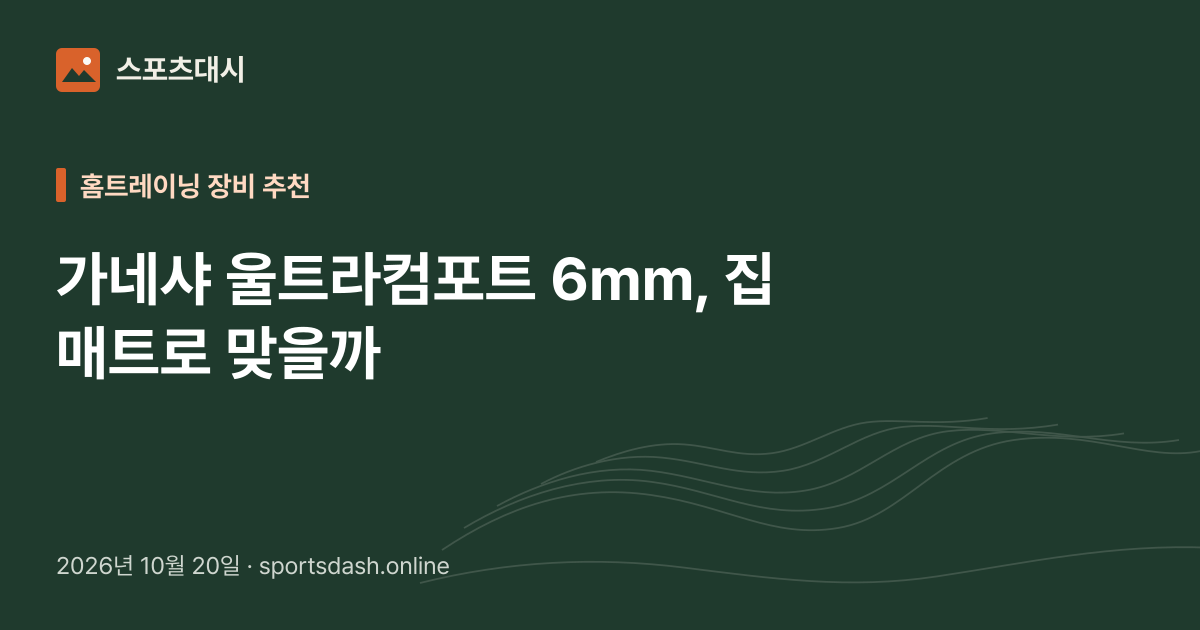
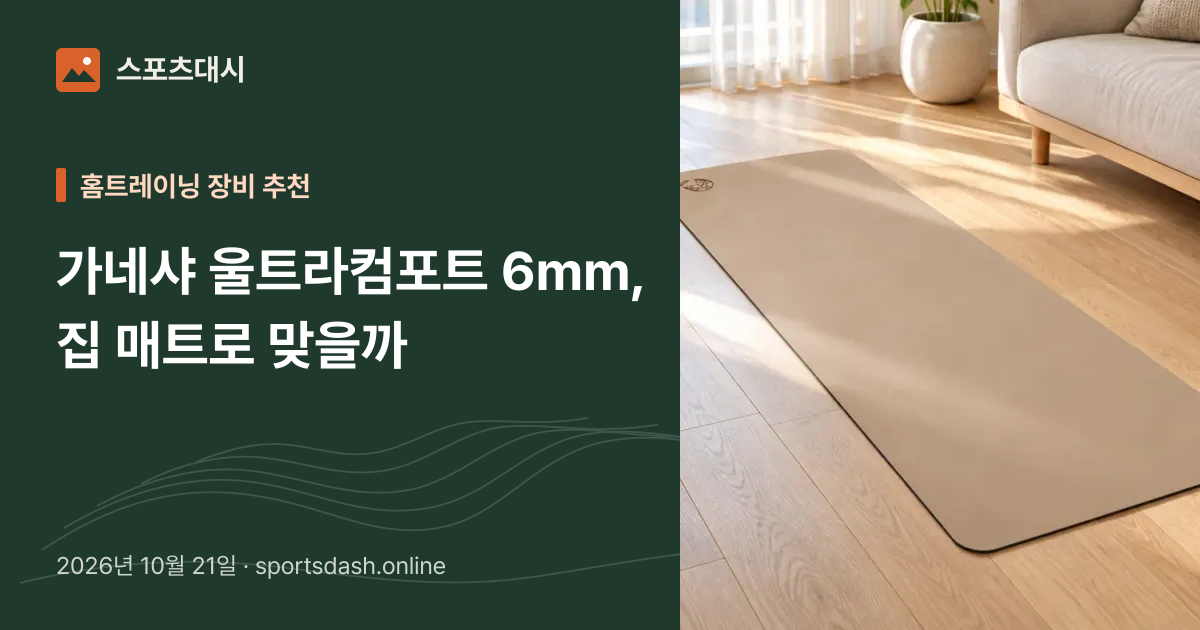
content: rewrite MB5 and Ganesha published posts to trail format (format: trail), 7 gpt-image WebP photos each from official/exact-option refs; drop PNG diagram refs

diff --git a/ops/evidence/ganesha-ultra-comfort-6mm-yoga-mat-images.md b/ops/evidence/ganesha-ultra-comfort-6mm-yoga-mat-images.md
@@ -1,0 +1,21 @@
+# Image provenance: ganesha-ultra-comfort-6mm-yoga-mat (trail rewrite 2026-10-21, task C)
+
+Generator: GENEXIS gpt-image skill (ChatGPT-subscription Codex bridge), batch concurrency 2, manifests a-d / logs / collector receipts in
+channel-ops/ops/state/sportsdash-taskc-20261021/. Native CLI reported write failure (read-only policy); PNGs recovered by strict host-copy collector (exact_utf8 binding). WebP 1280x853 q76.
+Refs: the manufacturer site (ganeshayogaprops.com/47?idx=157) colour list has no Milk Sand, so the exact-option refs are the brand-shop gallery photos on the exact Coupang listing
+https://www.coupang.com/vp/products/8522471997?itemId=24650131748&vendorItemId=91660750475 (selected option observed 2026-10-21: Milk Sand × 183cm x 68 cm × 1개):
+https://thumbnail.coupangcdn.com/thumbnails/remote/1000x1000ex/image/retail/images/2486487714954465-4f1cd3a7-040c-4b85-b208-f5be9d066de3.jpg ;
+https://thumbnail.coupangcdn.com/thumbnails/remote/1000x1000ex/image/retail/images/554098781040909-42987b64-12ce-463a-834e-cccf1d77fbff.jpg ;
+https://thumbnail.coupangcdn.com/thumbnails/remote/1000x1000ex/image/retail/images/2486477425206984-0a9a451e-1fa1-4f7f-abe3-37afb064ada5.jpg
+(local copies + full list: _ops/source-maintenance/2026-10-21-redesign/sportsdash/refs/ganesha-milksand-*.jpg, ganesha-refs-urls.json). Old PNG diagrams (cover/layers/weight/check.png) are no longer referenced; files left in place.
+
+| file | role | QA |
+|---|---|---|
+| ganesha-hero-living.webp | cover | PASS: Milk Sand sandy-beige top, rounded corners, ~2.7:1, small logo stamp at one end, thin dark base line |
+| ganesha-corner-edge.webp | detail | PASS: rounded corner, beige PU over dark rubber layer, elephant-drop logo (no invented text) |
+| ganesha-roll-end.webp | detail | PASS: spiral shows beige top / charcoal rubber underside |
+| ganesha-airing-window.webp | context | PASS with alt fix: window not clearly open, alt changed to "햇빛 드는 창가" |
+| ganesha-stored-corner.webp | context | PASS: rolled upright, no strap/bag/band |
+| ganesha-measure-floor.webp | use | PASS: tape numbers not legible, mat between sofa and table |
+| ganesha-practice-towel.webp | use | PASS: low lunge, plain towel at front end, realistic anatomy |
+No prices, ratings, efficacy, or first-hand claims in alts/captions.

diff --git a/ops/evidence/triggerpoint-mb5-massage-ball-images.md b/ops/evidence/triggerpoint-mb5-massage-ball-images.md
@@ -1,0 +1,20 @@
+# Image provenance: triggerpoint-mb5-massage-ball (trail rewrite 2026-10-21, task C)
+
+Generator: GENEXIS gpt-image skill (ChatGPT-subscription Codex bridge), batch concurrency 2, manifests a-d / logs / collector receipts in
+channel-ops/ops/state/sportsdash-taskc-20261021/. Native CLI reported write failure (read-only policy); PNGs recovered by strict host-copy collector (exact_utf8 binding). WebP 1280x853 q76.
+Official refs (tptherapy.com/products/mb5-massage-ball.js, observed 2026-10-21): 
+https://cdn.shopify.com/s/files/1/0647/3999/9859/files/lxnz8bavnpwa0orb51rq.jpg?v=1750694298 ;
+https://cdn.shopify.com/s/files/1/0647/3999/9859/files/yyinbvygnneliykp5als.jpg?v=1750694298 ;
+https://cdn.shopify.com/s/files/1/0647/3999/9859/files/y2mtweeiiptozys5rmpe.jpg?v=1750694298
+(local copies: _ops/source-maintenance/2026-10-21-redesign/sportsdash/refs/mb5-01,02,05.jpg). Old PNG diagrams (cover/contact/layers/check.png) are no longer referenced; files left in place.
+
+| file | role | QA |
+|---|---|---|
+| mb5-hero-mat.webp | cover | PASS: single sphere, black pole disc with square T badge + TRIGGERPOINT lettering, white/lime/black bands |
+| mb5-hand-scale.webp | detail | PASS: ball wider than adult palm (5-inch scale plausible), 5 fingers |
+| mb5-stripe-side.webp | detail | PASS: side stripe order matches official side photo |
+| mb5-vs-roller.webp | comparison | PASS: unbranded grey roller, no logo/text; ball diameter ~ roller diameter |
+| mb5-shelf-storage.webp | context | PASS: ball in basket; neighbouring generic grey mat is not the product |
+| mb5-wall-back.webp | use | PASS with alt fix: ball sits behind upper shoulder (alt changed from "날개뼈 옆") |
+| mb5-hip-floor.webp | use | PASS with alt fix: ball under the glutes, both feet down (alt changed from "한 발") |
+No prices, ratings, efficacy, or first-hand claims in alts/captions.
